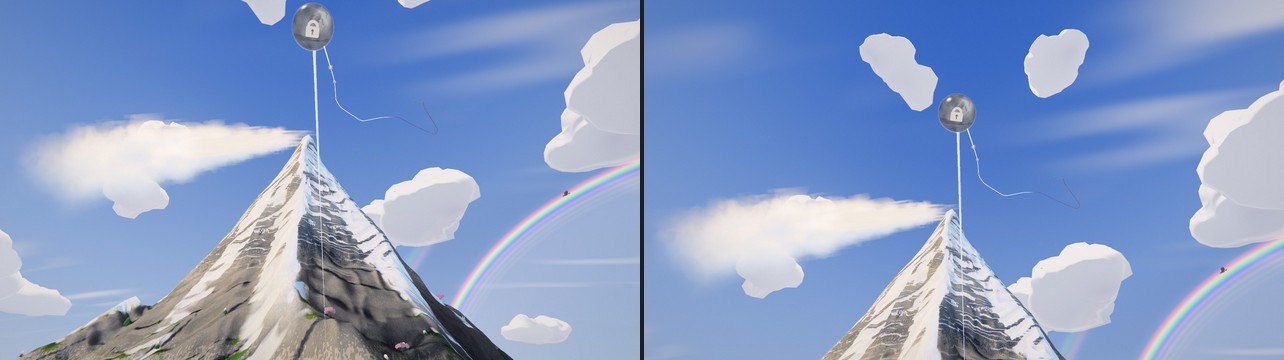
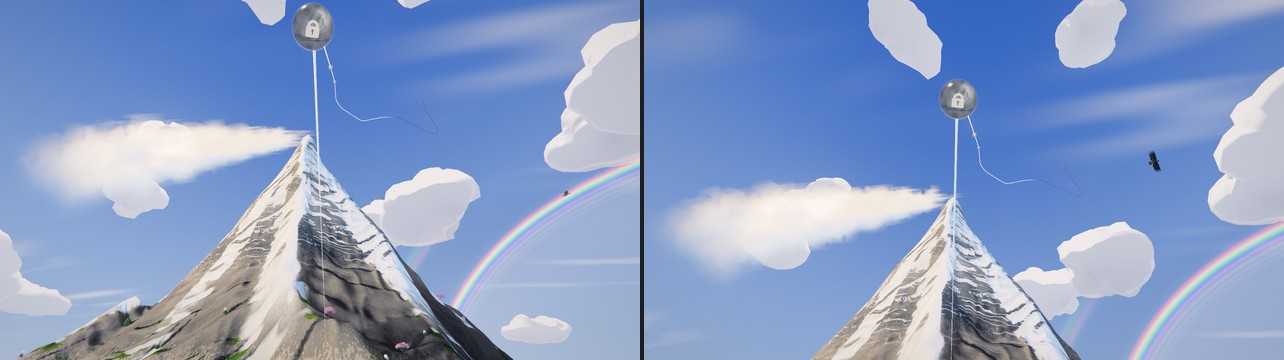
Odyssey: frame orb 28 with its own small tilt, keeping the geese in view from orb 27's stop
Bringing the climb's lift in at 0.07 framed orb 28 but also tilted orb 27's stop (it parks at
chapter-local 0.112, past the 4->5 seam) off the geese's crossing up the wall, which
odyssey-act2-fade-out-of-view.test.js protects (the full suite caught it). The lift is back at
0.17, and CHAPTER_5_SHOTS.ledge (13 deg) comes in between the two stops and hands over to it:
orb 28 at ndc y 0.45 from its stop (was 0.84), orb 27's stop unchanged.

diff --git a/src/rendering/odyssey/OdysseyCameraController.js b/src/rendering/odyssey/OdysseyCameraController.js
@@ -535,11 +535,16 @@ export const CHAPTER_5_SHOTS = Object.freeze({
     face: Object.freeze({
         in: Object.freeze([-2, -1]), out: Object.freeze([0.03, 0.10]), pitchDeg: -16, yawDeg: 0, fovOffset: 6,
     }),
-    // (2026-11-01: in from 0.07, as the face shot lets go. It came in at 0.17, so L28, parked at
-    // 0.125 between the two, was framed by the base arc alone and sat on the top edge, the eye
-    // looking up the face at it: the open item since the 2026-10-20 overhaul.)
+    // L28'S STOP (2026-11-01). L28 parks at 0.125, between the face shot and the lift, and was framed
+    // by the base arc alone: the orb sat on the top edge, the eye looking up the face at it (the
+    // open item since the 2026-10-20 overhaul). A small tilt up comes in just past L27's stop (which
+    // parks at 0.112, past the 4->5 seam, and keeps the geese's crossing up the wall in view) and
+    // hands over to the lift: the orb sits in the upper half.
+    ledge: Object.freeze({
+        in: Object.freeze([0.114, 0.124]), out: Object.freeze([0.17, 0.25]), pitchDeg: 13, yawDeg: 0, fovOffset: 0,
+    }),
     lift: Object.freeze({
-        in: Object.freeze([0.07, 0.16]), out: Object.freeze([0.80, 0.90]), pitchDeg: 23, yawDeg: 0, fovOffset: 0,
+        in: Object.freeze([0.17, 0.25]), out: Object.freeze([0.80, 0.90]), pitchDeg: 23, yawDeg: 0, fovOffset: 0,
     }),
     lookOut: Object.freeze({
         in: Object.freeze([0.29, 0.36]), out: Object.freeze([0.41, 0.47]), pitchDeg: -4, yawDeg: 16, fovOffset: 4,

diff --git a/tests/unit/odyssey-ch5-climb-framing.test.js b/tests/unit/odyssey-ch5-climb-framing.test.js
@@ -147,8 +147,8 @@ describe('Odyssey chapter 5 climb framing (real camera + real spline)', () => {
     });
 
     it('leaves the 5->6 hand-off pose exactly as it was, and the climb shots after the face shot', () => {
-        // The face shot (2026-10-20, below) owns the lift-off; the lift picks up as it lets go
-        // (2026-11-01, so L28 is framed), and every shot is gone before the hand-off.
+        // The face shot (2026-10-20, below) owns the lift-off; L28's small tilt (2026-11-01) comes in
+        // after it, and every shot is gone before the hand-off.
         const climb = Object.entries(CHAPTER_5_SHOTS).filter(([name]) => name !== 'face').map(([, s]) => s);
         const firstIn = Math.min(...climb.map((shot) => shot.in[0]));
         const lastOut = Math.max(...climb.map((shot) => shot.out[1]));

diff --git a/docs/ODYSSEY_OVERHAUL_ACT2_2026-10.md b/docs/ODYSSEY_OVERHAUL_ACT2_2026-10.md
@@ -184,8 +184,8 @@ renderer TSL build, the URL parameter catalogue — see the lane report for the 
 - **L27/L28** (the first climb orbs) still look ~45 deg up the face: the orb underfoot is ~35 u
   straight above the eye on the near-vertical rail, so any further pitch-down loses it. A real
   fix moves the eye off the wall (an eye offset, not an aim), which is a camera-rig change.
-  *2026-11-01:* L28 was parked between the face shot and the climb's lift; the lift now comes in as
-  the face shot lets go and frames it in the upper third (L27 was already framed).
+  *2026-11-01:* L28 was parked between the face shot and the climb's lift; a small tilt now comes in as
+  L27's stop is passed and frames it in the upper half (L27's stop keeps the geese in view).
   [ODYSSEY_FINALE_AND_SMOOTHNESS_2026-11.md](ODYSSEY_FINALE_AND_SMOOTHNESS_2026-11.md) §6.
 - The summit is clean white with fluted streaks but still a smooth cone at the closest summit
   shots; snow texture at that range (wind crust, glints) would be the next step.

diff --git a/docs/ODYSSEY_FINALE_AND_SMOOTHNESS_2026-11.md b/docs/ODYSSEY_FINALE_AND_SMOOTHNESS_2026-11.md
@@ -159,9 +159,12 @@ From orb 28's stop the orb sat at the top edge of the frame (ndc y 0.84), the ey
 face at it:
 - It is parked at chapter-local 0.125, between the face shot (out by 0.10) and the climb's lift
   (in from 0.17).
-- The lift now comes in from 0.07, as the face shot lets go, so orb 28 sits in the upper third
-  (0.37). The summit sits lower in the frame there, as through the rest of the climb.
-- Orb 27 was already framed (0.47) and is unchanged.
+- A small tilt up (`CHAPTER_5_SHOTS.ledge`, 13 deg) now comes in just before it and hands over to
+  the lift, so orb 28 sits in the upper half (0.45).
+- Orb 27's stop is unchanged. It parks at 0.112, just past the 4->5 seam, and keeps the geese's
+  crossing up the wall in view (`odyssey-act2-fade-out-of-view.test.js`).
+  - Bringing the whole lift in earlier did frame orb 28, but it tilted that view off the geese, so
+    the tilt starts after it.
 - `tests/unit/odyssey-ch5-climb-framing.test.js` pins orb 28 below 0.6; it failed at 0.85 on the
   old camera.
 
